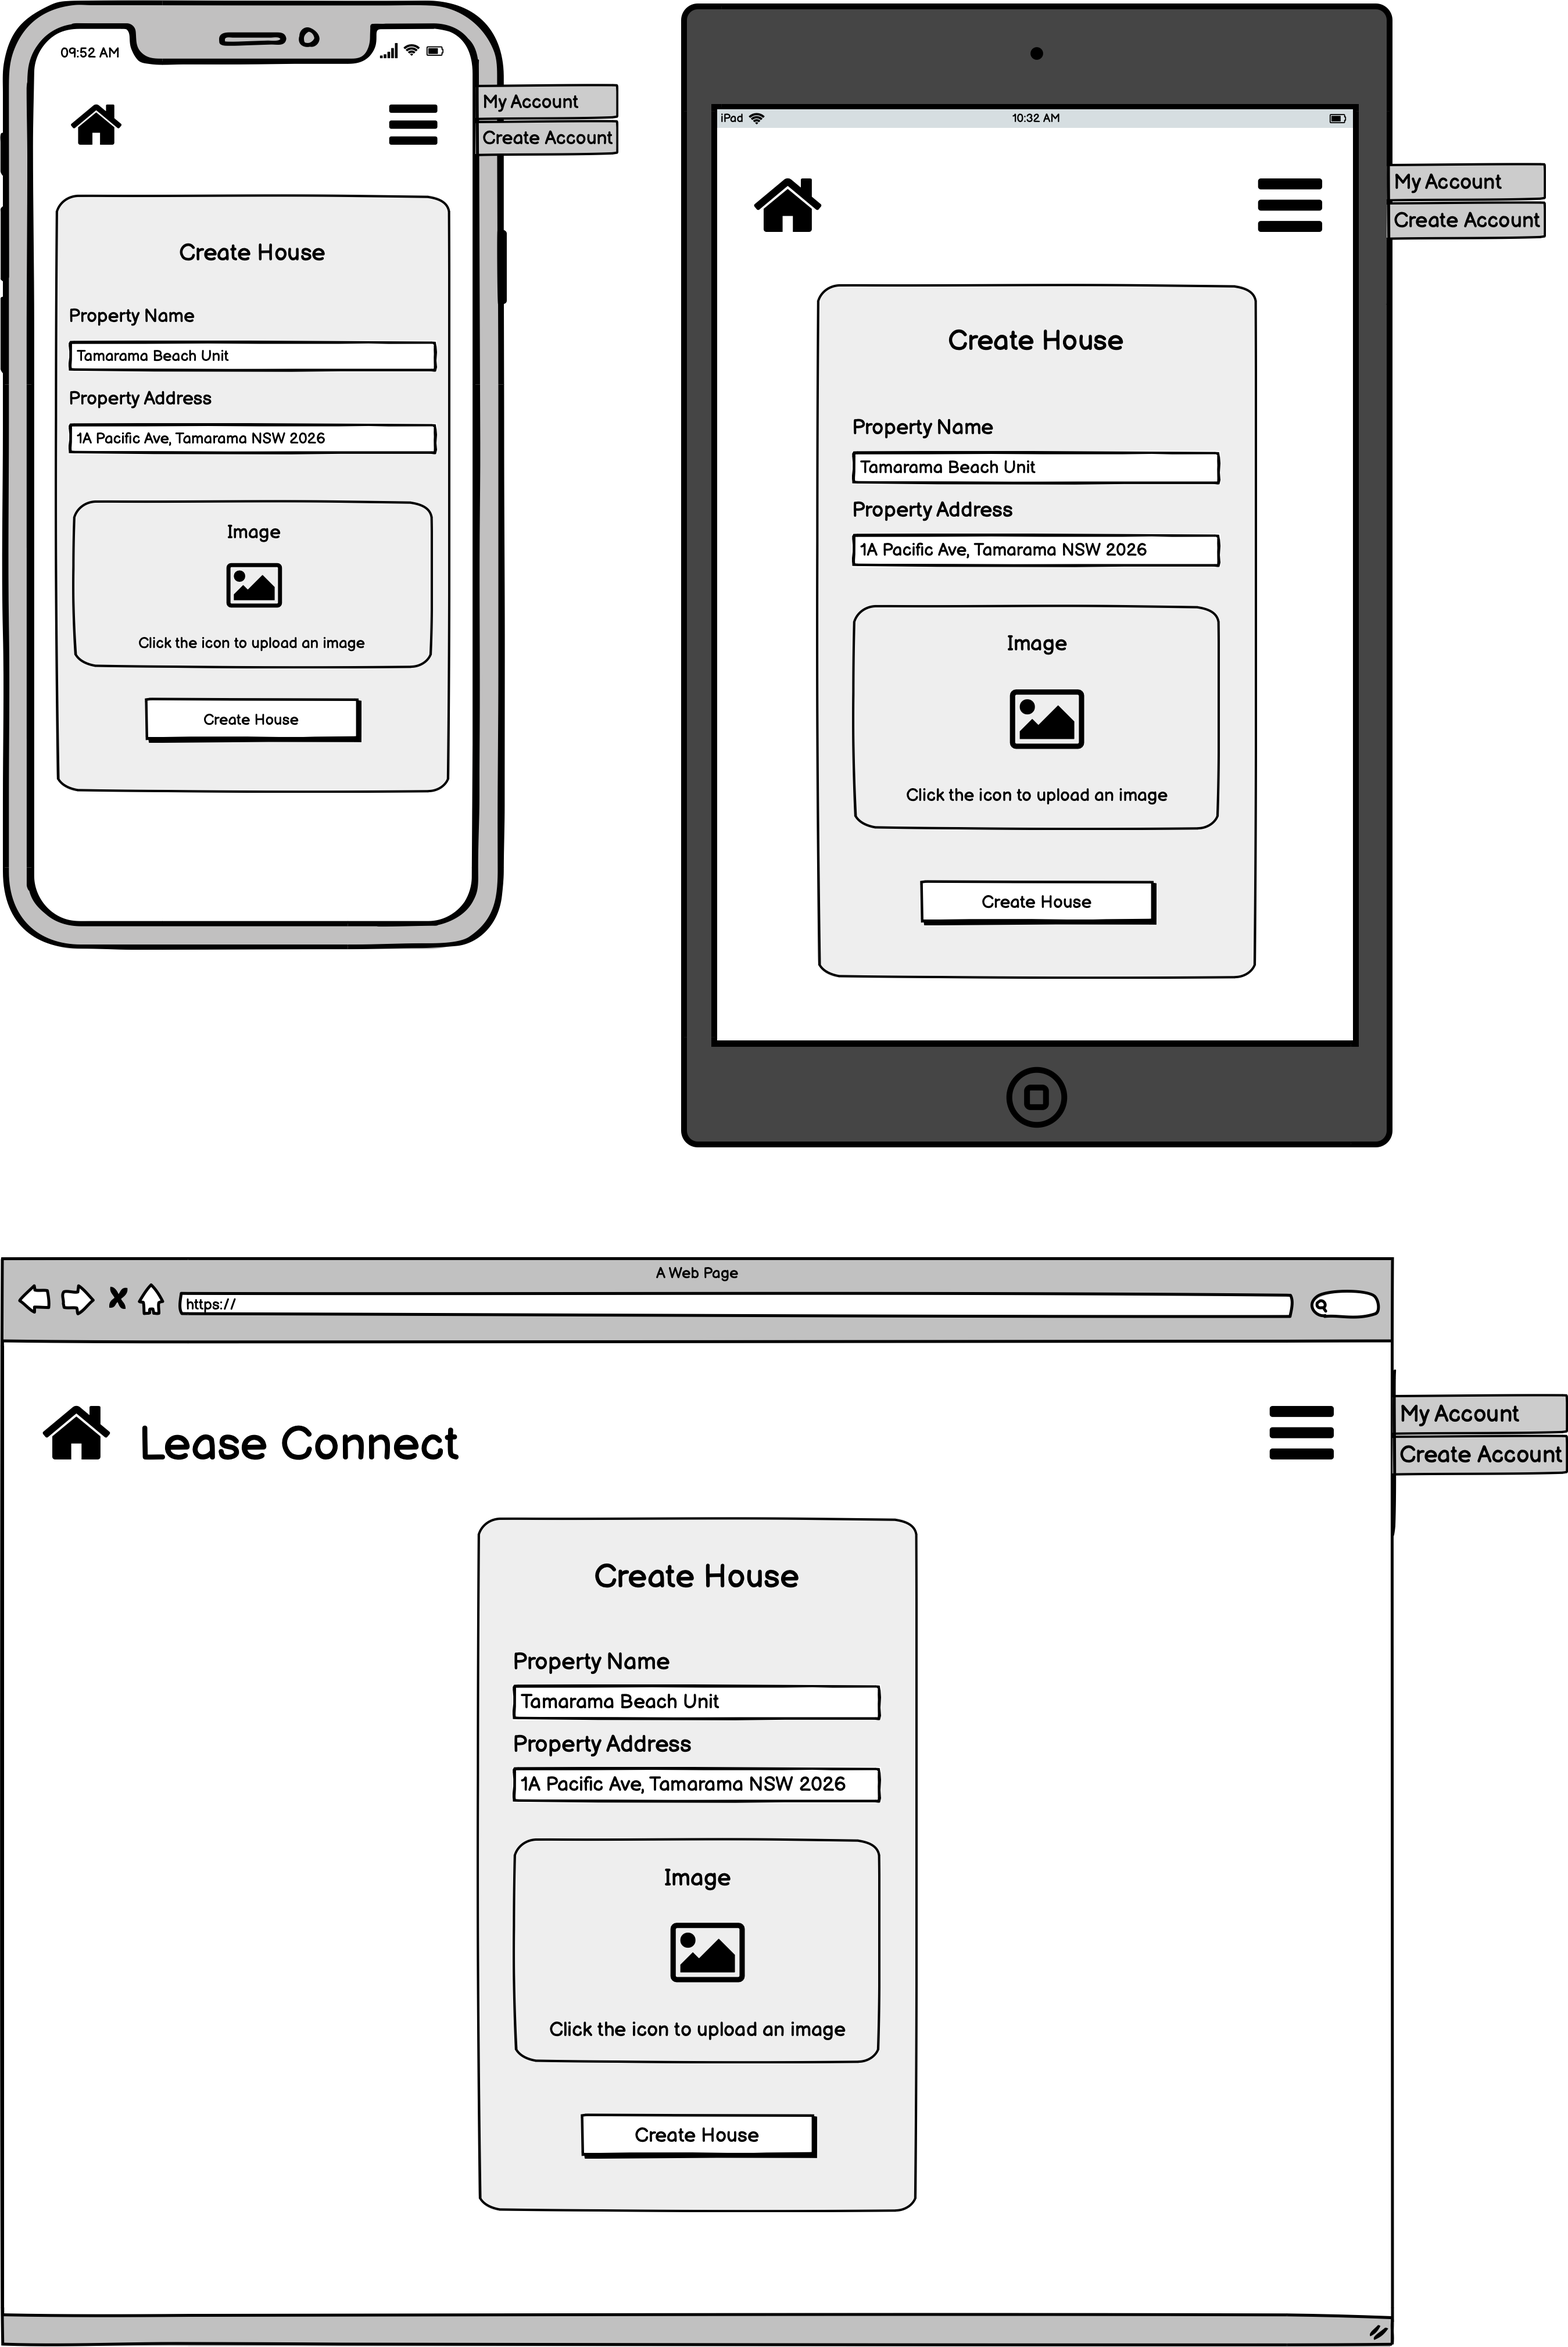
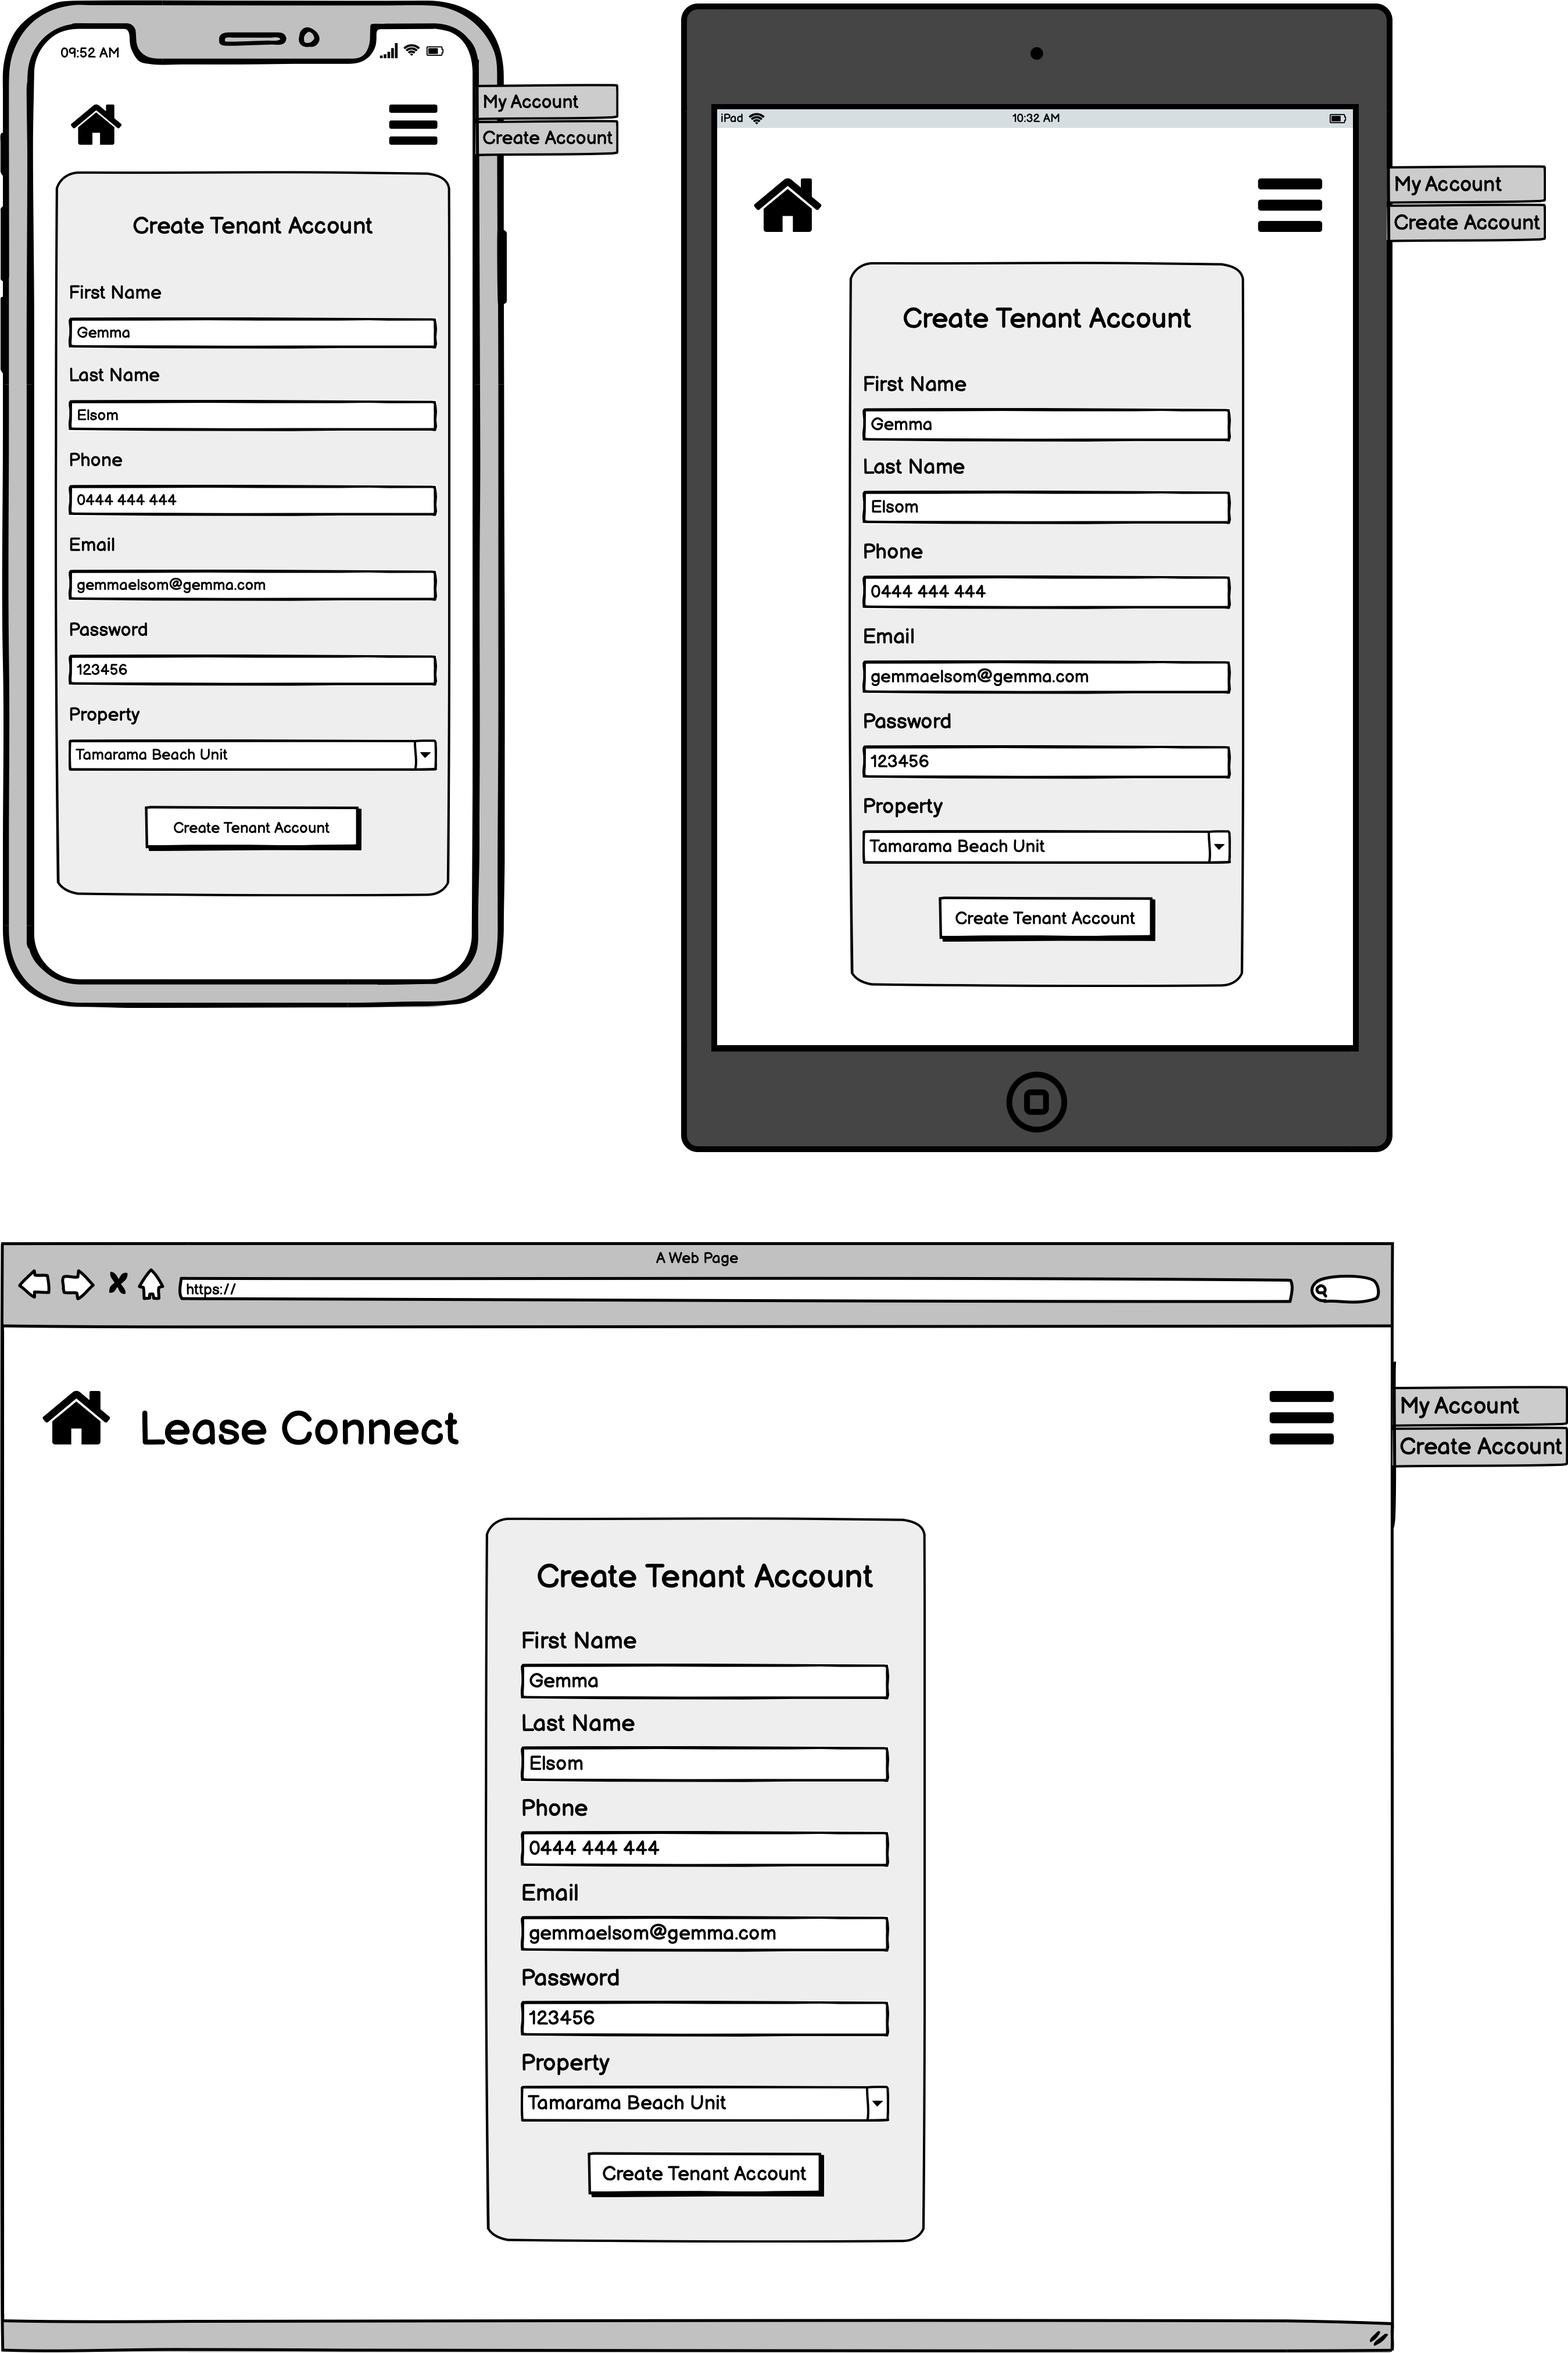
Tenant, admin, general wireframes descriptions

diff --git a/README.md b/README.md
@@ -136,9 +136,55 @@ Heroku is the deployment platform that will be used for the back-end of the appl
 ## Wireframes
 
 <details>
+<summary>Creation Process</summary>
+
+### 13/07/2021
+
+#### Brainstorm Meeting 
+
+  Research for competitors, discussed the design concept, sketched some ideas and designs and defined some key points:
+  - Mobile First
+  - Blocks to organise the content 
+  - collapsible menu 
+
+  Resolution: From the sketched designs create a graphic version using Balsamiq, considering all the key point. Present the wireframes mobile version on the next meeting for approval. 
+
+### 15/07/2021
+
+#### Meeting Suggestions
+
+  - "Property Manager" Property Wireframe: Add the "delete" icon to the maintenance jobs so the property managers can delete past jobs if necessary. Add the "documents" section with all previously uploaded documents related to that property. Add the "delete" icon to the documents so the property can delete a certain document.
+
+  - "Property Manager" Create Account Wireframe: Change the naming "household" to "tenant". Add "checkbox" to the property section.
+
+  - "Tenant" Maintenance Wireframe: Move the "new request" section to the top of the page.
+
+  - "Admin" Home Wireframe: Change the naming "household" to "tenant". Put the "house" section before the "tenants" section.
+
+  - Final decision: All suggestions have been implemented and final mobile wireframes uploaded
+
+### 16/07/2021
+
+#### Meeting Suggestions
+
+  - "Off-canvas" menu should be a dropdown menu for Ipad and Desktop version.
+
+  - Final decision: All suggestions have been implemented and final Ipad and Desktop wireframes uploaded
+
+</details>
+
+<details>
 <summary>General Components Wireframes</summary>
 
+Login
+
+The login page is the same for all users. It features a simple login screen that asks for the users email address and password. There is no option to "Register" for an account, as accounts can only be created by admin or a property manager.
+
 ![General Component Login](docs/general_login.png)
+
+Menu
+
+All three versions of the application, mobile, tablet and desktop, include a hamburger menu that is located in the top right corner of the page. For admin and property managers the menu will display three options, "My Account", "Create Account", and "Calendar". For users with the role of tenant, the menu will display, "My Account", "Maintenance", and "Documents".
 
 ![General Component Menu](docs/general_menu.png)
 </details>
@@ -146,13 +192,23 @@ Heroku is the deployment platform that will be used for the back-end of the appl
 <details>
 <summary>Property Manager Wireframes</summary>
 
+Home
+
 ![Property Manager Home](docs/pm_home.png)
+
+Property
 
 ![Property Manager Property](docs/pm_property.png)
 
+Calendar
+
 ![Property Manager Calendar](docs/pm_calendar.png)
 
+My Account
+
 ![Property Manager My Account](docs/pm_my_account.png)
+
+Create Account
 
 ![Property Manager Create Account](docs/pm_create_account.png)
 </details>
@@ -160,13 +216,33 @@ Heroku is the deployment platform that will be used for the back-end of the appl
 <details>
 <summary>Tenant Wireframes</summary>
 
+Home
+
+The tenant home page displays a calendar that is marked with any upcoming events such as inspections or days where maintenance jobs are being attended to. There is a full month display of the calendar, and then upcoming events are displayed clearly with details such as event description and time.
+
 ![Tenant Home](docs/tenant_home.png)
+
+Maintenance
+
+On this page, tenants can see all previous maintenance requests that they've made. On each request there is a button that shows if the request is pending, unread, or done. They will also have the option here to create a new maintenance request.
 
 ![Tenant Maintenance](docs/tenant_maintenance.png)
 
+Request Maintenance
+
+On this page, tenants can submit a request to have maintenance done on the house. They will need to provide a summary statement of what the issue is, a further description of what needs to be fixed, and they can upload an image of the issue. This request will then be sent through to the property manager directly.
+
 ![Tenant Request Maintenance](docs/tenant_request_maintenance.png)
 
+Documents
+
+This page allows tenants to view all documents related to them. Tenant can click in the file icon to download the document. 
+
 ![Tenant Documents](docs/tenant_documents.png)
+
+My Account
+
+This page allows tenants to update their account details. They can edit their first name, last name, email address, and change their password. As admin will set a generic password when the account is created, this page will need to be used to change the password to a more secure one once the tenant has been given the account details.
 
 ![Tenant My Account](docs/tenant_my_account.png)
 </details>
@@ -174,15 +250,39 @@ Heroku is the deployment platform that will be used for the back-end of the appl
 <details>
 <summary>Admin Wireframes</summary>
 
+Home 
+
+The Home page for admin stores information about the property managers, houses, and tenants that are linked to the admin account. On this page, admin can delete the profile for any house, tenant or property manager.
+
 ![Admin Home](docs/admin_home.png)
+
+Create Account
+
+This is the page that admin will go to in order to create an account for either a property manager, a house or a tenant. They have three clear options to choose from, and once selected they will be directed to another page for the individual account they need to create.
 
 ![Admin Create Account](docs/admin_create_account.png)
 
+Create Property Manager Account
+
+This page allows admin to create a new account for a Property Manager. In order to create the account, admin needs to provide the property managers first and last name, phone number, email address and a temporary password.
+
 ![Admin Create Property Manager Account](docs/admin_create_pm_account.png)
+
+Create Tenant Account
+
+This page allows admin to create a new account for a Tenant. In order to create the account, admin needs to provide the tenant first and last name, phone number, email address and a temporary password. And select which property the tenant belongs to. 
 
 ![Admin Create Tenant Account](docs/admin_create_tenant_account.png)
 
+Create House 
+
+On this page, admin can create an account for the individual tenants of a household. They will need to provide the tenants first name, last name, phone number, email address, a temporary password, and select which property they live in and are associated to.
+
 ![Admin Create House](docs/admin_create_house.png)
+
+My Account
+
+In the My Account section for admin, users can change their first name, last name, and email address as well as update their password. This page can be accessed through the "My Account" option on the menu.
 
 ![Admin My Account](docs/admin_my_account.png)
 </details>
